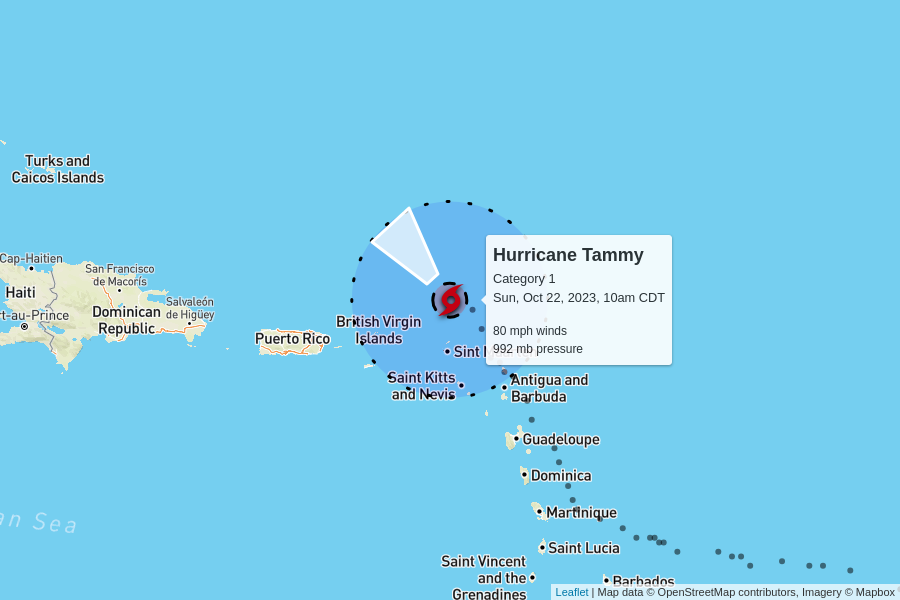
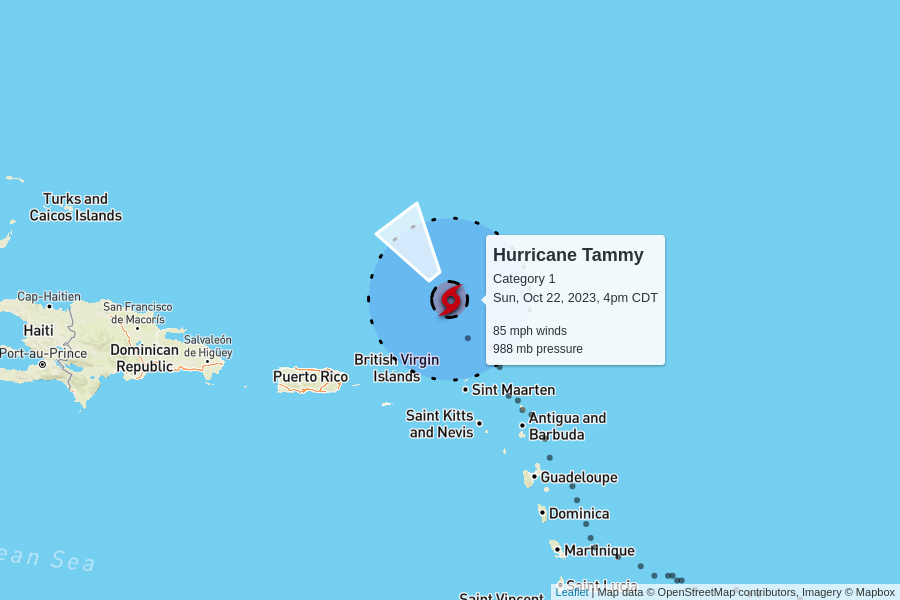
automatic update

diff --git a/docs/index.html b/docs/index.html
@@ -102,7 +102,7 @@
         <td colspan="6" class="storm category-1" >
           <h2>
             Hurricane Tammy - Category 1
-            <p class="updated">last updated <span data-time>2023-10-22T15:00:00.000Z</span></p>
+            <p class="updated">last updated <span data-time>2023-10-22T21:00:00.000Z</span></p>
           </h2>
         </td>
       </tr>
@@ -117,12 +117,12 @@
       </tr>
       <tr>
         <td class="spacer"></td>
-        <td>80 mph<br>-5 mph since last update</td>
-        <td>992 mb<br>0 mb since last update</td>
+        <td>85 mph<br>+5 mph since last update</td>
+        <td>988 mb<br>-4 mb since last update</td>
         <td>
           9 mph to the northwest
           <br/>
-          <span style="display: inline-block; font-size: 1.5em; transform: rotate(320deg);">↑</span>
+          <span style="display: inline-block; font-size: 1.5em; transform: rotate(325deg);">↑</span>
         </td>
         <td><a href="https://raw.githubusercontent.com/mgwalker/atlantic-hurricanes/main/data/csv/AL202023.csv">AL202023.csv</a></td>
         <td><a href="https://www.nhc.noaa.gov/archive/2023/TAMMY.shtml?">NHC advisories</a></td>
